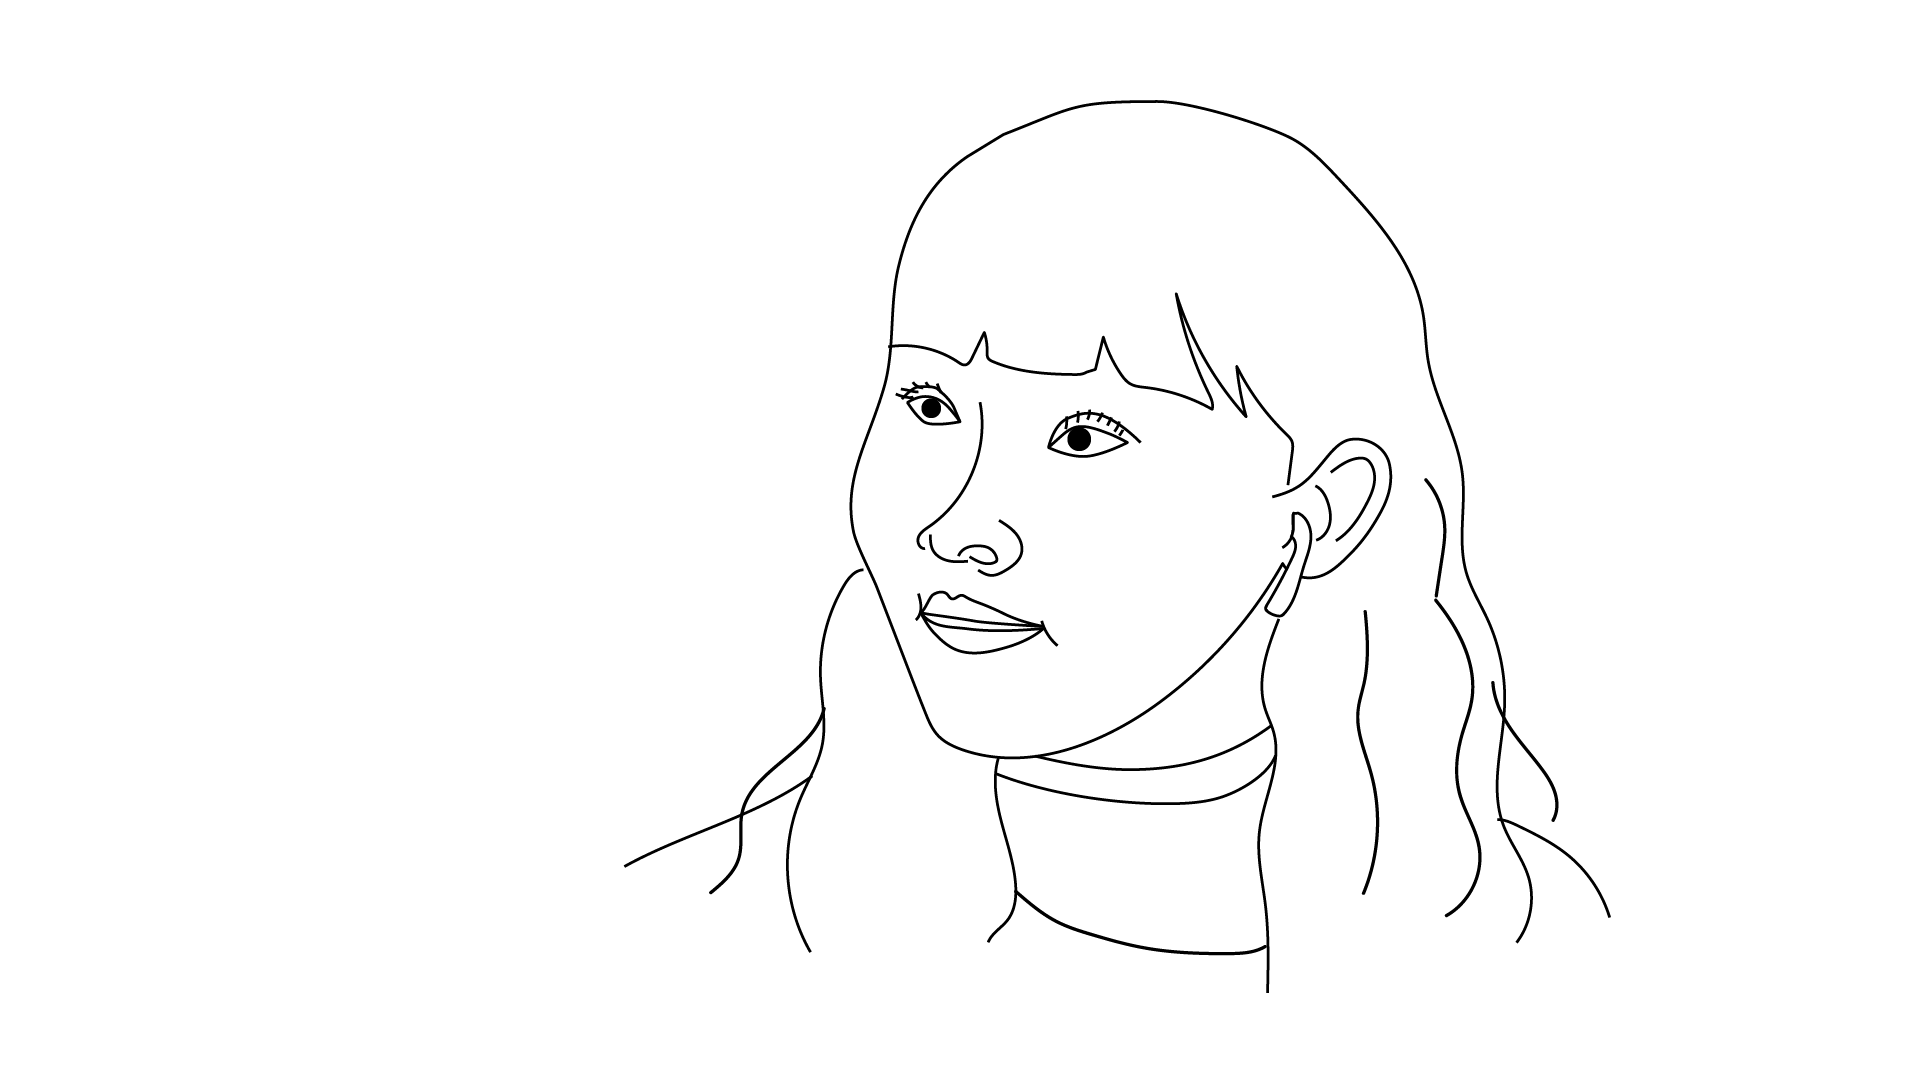
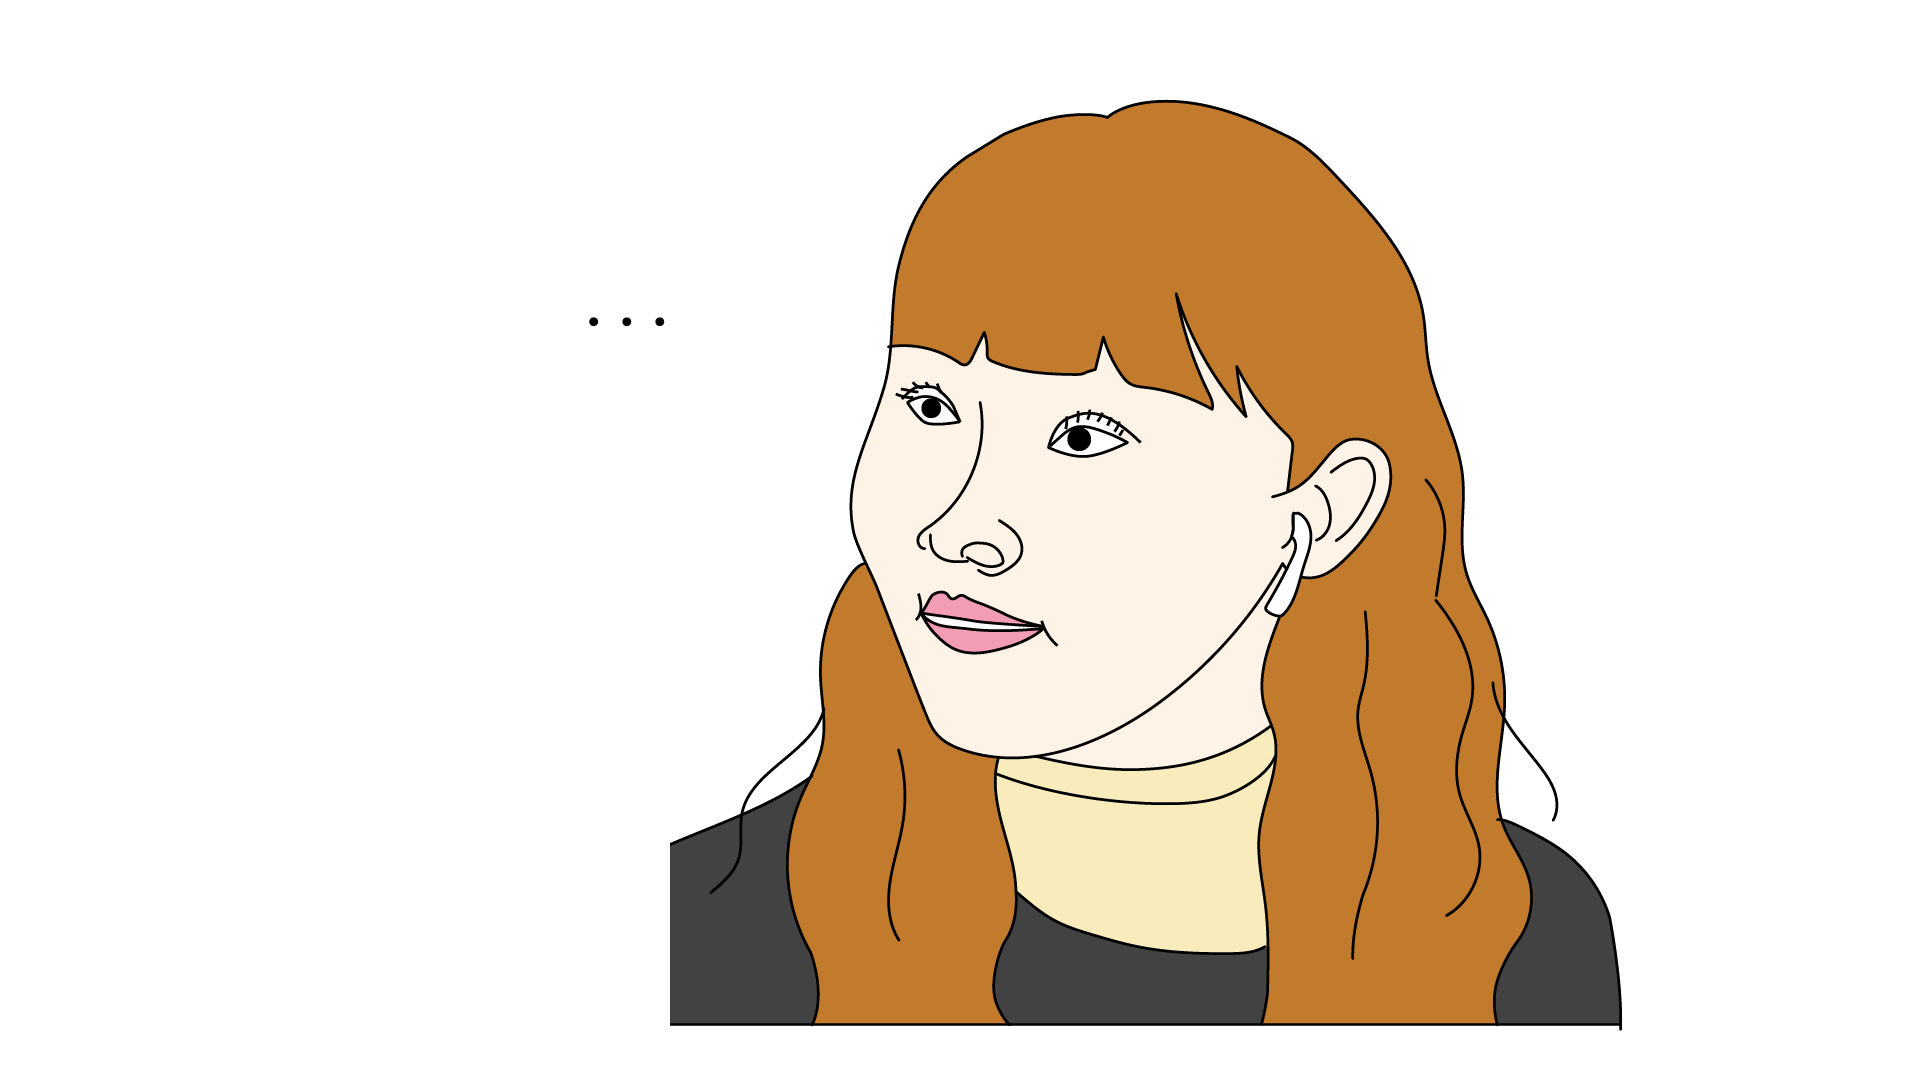
color ayoung

Changed region(s): [[0.3438, 0.0917, 0.8438, 0.9472]]

diff --git a/MZgame/MZgame/urls.py b/MZgame/MZgame/urls.py
@@ -21,7 +21,7 @@ from Ourgame import views
 
 urlpatterns = [
     path('admin/', admin.site.urls),
-    path('home/',views.home,name='home'),
+    path('',views.home,name='home'),
     path('name/',views.name,name='name'),
     path('game/',views.game,name='game'),
     path('gameover/',views.gameover,name='gameover'),
